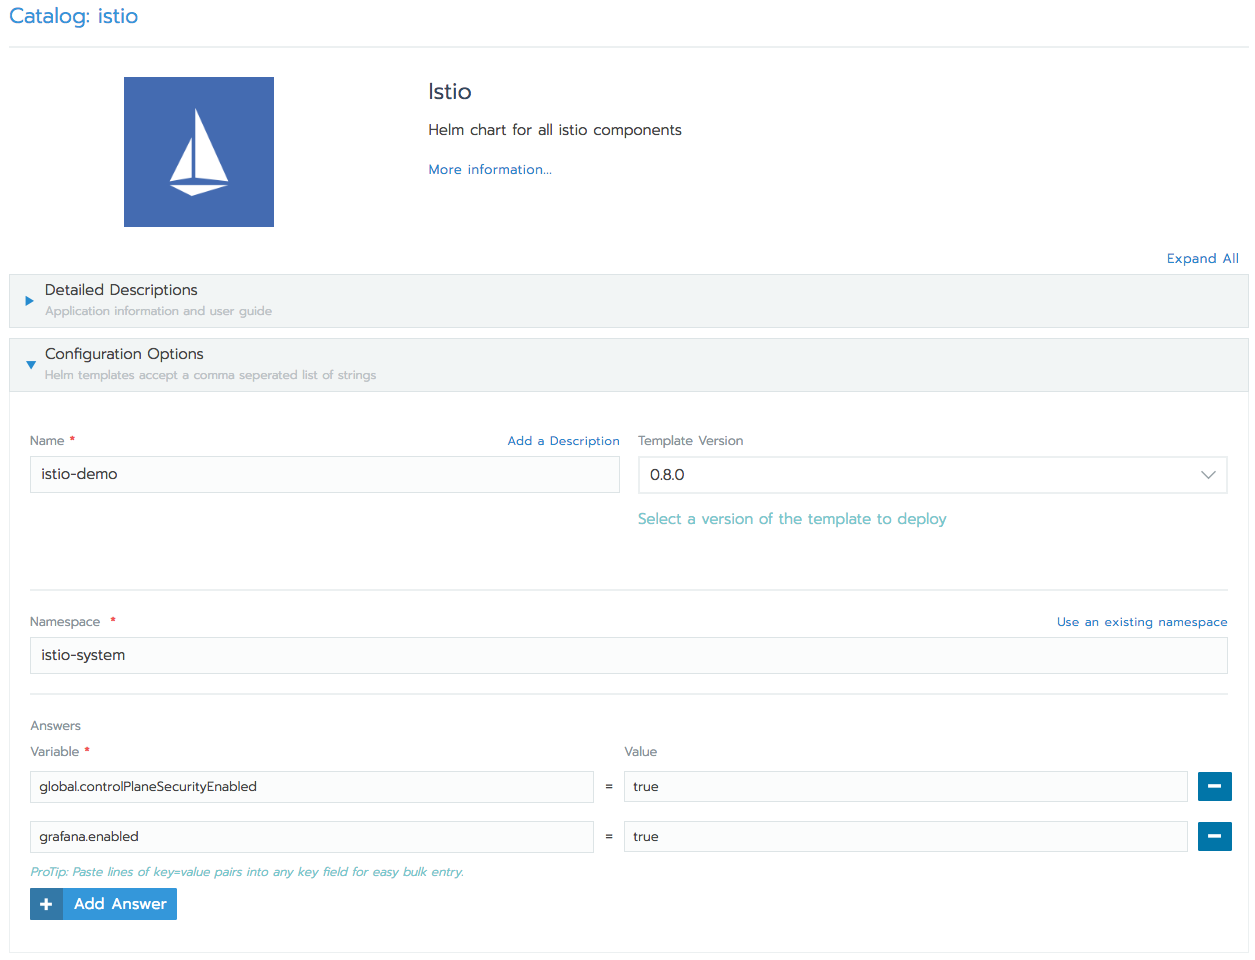
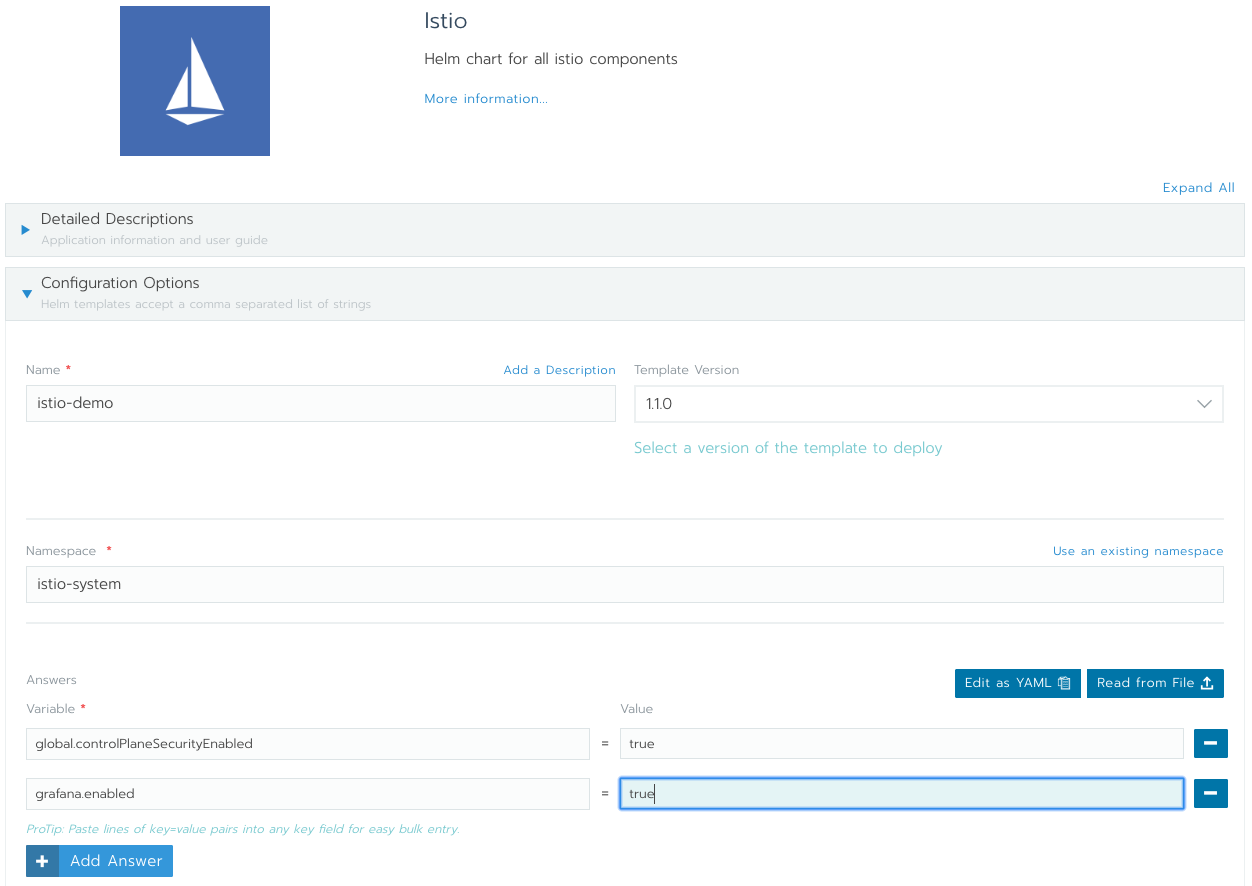
adapted to v1.0.2 of Istio

diff --git a/README.md b/README.md
@@ -1,6 +1,6 @@
 # **Deploying Istio using Rancher 2.0**
 
-Service mesh is a new technology stack aimed at solving the connectivity problem between cloud native applications. If you want to build a cloud native application, you need a service mesh. One of the big players in the service mesh world is Istio. Istio is best described in their own [about page](https://istio.io/about/intro/). It's a very promising service mesh solution, based on [Envoy Proxy](https://www.envoyproxy.io/), having multiple tech giants contributing to it.
+Service mesh is a new technology stack aimed at solving the connectivity problem between cloud native applications. If you want to build a cloud native application, you need a service mesh. One of the big players in the service mesh world is Istio. Istio is best described in their own [about page](https://istio.io/docs/concepts/what-is-istio/). It's a very promising service mesh solution, based on [Envoy Proxy](https://www.envoyproxy.io/), having multiple tech giants contributing to it.
 
 ### Below is an overview of how you can deploy Istio using [Rancher 2.0](https://rancher.com/docs/rancher/v2.x/en/)
 
@@ -9,9 +9,10 @@ Istio, at the moment works best with Kubernetes, but they are working to bring s
 #### Prerequisites
 To perform this demo, you will need the followings:
 - a Google Cloud Platform account, the free tier provided is more than enough;
-- one ubuntu 16.04 instance (this is where Rancher instance will be running)
-- a kubernetes cluster, deployed to Google Cloud Platform, using Google Kubernetes Engine, this demo uses version `1.10.5-gke.2`, latest available at the time of writing;
-- istio version `0.8.0`, the latest available at the time of this writing.
+- one ubuntu 18.04 instance (this is where Rancher instance will be running)
+- a kubernetes cluster, deployed to Google Cloud Platform, using Google Kubernetes Engine, this demo uses version `1.10.7-gke.6`, latest available at the time of writing;
+- Rancher `v2.1.0`;
+- istio version `1.0.2`, the latest available at the time of this writing.
 
 Normally the steps provided should be valid with newer versions too.
 
@@ -22,21 +23,20 @@ For the beginning, start a Rancher 2.0 instance. There's a very intuitive gettin
 This example will use Google Cloud Platform, so let's start and Ubuntu instance there and allow HTTP and HTTPs traffic to it, either via [Console or CLI](https://cloud.google.com/compute/docs/instances/create-start-instance). Here's an example command to achieve the above:
 ```
 gcloud compute --project=rancher-20 instances create rancher-20 \
---zone=europe-west2-a --machine-type=n1-standard-1 \
---tags=http-server,https-server --image=ubuntu-1604-xenial-v20180627 \
---image-project=ubuntu-os-cloud
-
-gcloud compute --project=rancher-20 firewall-rules create default-allow-http \
---direction=INGRESS --priority=1000 --network=default --action=ALLOW \
---rules=tcp:80 --source-ranges=0.0.0.0/0 --target-tags=http-server
-
-gcloud compute --project=rancher-20 firewall-rules create default-allow-https \
---direction=INGRESS --priority=1000 --network=default --action=ALLOW \
---rules=tcp:443 --source-ranges=0.0.0.0/0 --target-tags=https-server
-```
+ --zone=europe-west2-c \
+ --machine-type=g1-small \
+ --tags=http-server,https-server \
+ --image=ubuntu-1804-bionic-v20180911 \
+ --image-project=ubuntu-os-cloud
+ ```
 
 Make sure you have at least **1 vCPU** and about **4GB** of RAM available for the rancher instance.
-Next step is to ssh into the instance and [install docker](https://docs.docker.com/install/linux/docker-ce/ubuntu/). Once docker is installed, start Rancher and verify it's running:
+Next step is to ssh into the instance:
+```
+gcloud compute ssh --project "rancher-20" --zone "europe-west2-c" "rancher-20"
+```
+
+and [install docker](https://docs.docker.com/install/linux/docker-ce/ubuntu/). Once docker is installed, start Rancher and verify it's running:
 ```
 ubuntu@rancher-20:~$ sudo docker run -d --restart=unless-stopped -p 80:80 -p 443:443 rancher/rancher
 Unable to find image 'rancher/rancher:latest' locally
@@ -70,7 +70,7 @@ You should be redirected to a HTTPS page of Rancher and you should see a warning
 
 For that you'll need a Google Cloud Service Account with the following Roles attached to it `Compute Viewer`, `Kubernetes Engine Admin`, `Service Account User`, `Project Viewer`. Afterwards you need to generate service account keys, as described [here](https://cloud.google.com/iam/docs/creating-managing-service-account-keys)
 
-Now get your service account keys (it's safe to use the default Compute Engine service account), you will need them to start a kubernetes cluster using Rancher 2.0:
+Now get your service account keys (it's safe to use the default Compute Engine service account, you can get it from Google Cloud Console), you will need them to start a kubernetes cluster using Rancher 2.0:
 ```
 gcloud iam service-accounts keys create ./key.json \
     --iam-account <SA-NAME>@developer.gserviceaccount.com
@@ -123,7 +123,7 @@ Hit **Create**
 
 At this stage, you should be able to deploy Istio using Rancher's Catalog. To do that, go to the Default Project of `rancher-demo`'s cluster and select `Catalog Apps` there. Once you click on **Launch**, you will be presented with a number of default available applications. As this demo is about Istio, select from All Catalogs, the `istio-github` catalog, that you've just created. This will present you with 2 options `istio` and `istio-remote`. Select `View Details` for **istio** one. You'll be presented with the options to deploy Istio. Select the followings:
 * let's set the name to `istio-demo`;
-* leave the template version to *0.8.0*;
+* leave the template version to *1.1.0*;
 * the default namespace used for istio is `istio-system`, thus set the namespace to `istio-system`;
 * by default, Istio doesn't encrypt traffic between it's components. That's a very nice feature to have, let's add it. On the same topic, Istio's helm chart doesn't add by default Grafana, that's very useful to have, let's add this one too. This is done by setting to true the `global.controlPlaneSecurityEnabled` and `grafana.enabled` variables. To do this:
   - click **Add Answer**;
@@ -137,14 +137,7 @@ All of the above should look like in the screenshot below:
 
 Everything looks good, click on **Launch**
 
-Now if you look at the `Workloads` tab, you should see there all the components of Istio spinning up in your Cluster. Make sure all of the workloads are green. Also, check the `Load Balancing` tab, you should have `istio-ingress` and `istio-ingressgateway` there, both in `Active` state.
-
-In case you have `istio-ingressgateway` in `Pending` state, you need to apply `istio-ingressgateway` service once again. To do that:
-* click on **Import Yaml**;
-* for Import Mode, select `Cluster: Direct import of any resources into this cluster`;
-* copy/paste [istio-demo-ingressgateway.yaml](https://raw.githubusercontent.com/jaguarrr/istio-rancher-demo/master/istio-demo-ingressgateway.yaml) Service into the Import Yaml editor and hit **Import**:
-
-This step should solve the `Pending` problem with `istio-ingressgateway`.
+Now if you look at the `Workloads` tab, you should see there all the components of Istio spinning up in your Cluster. Make sure all of the workloads are green. Also, check the `Load Balancing` tab, you should have `istio-ingressgateway` there, in `Active` state.
 
 You should now check that all Istio's `Workloads`, `Load Balancing` and `Service Discovery` parts are green in Rancher Dashboard.
 
@@ -166,7 +159,7 @@ This label, will make sure that Istio-Sidecar-Injector will automatically inject
 
 #### Deploying Bookinfo sample app
 
-Only now, you can deploy a test application and test the power of Istio. To do that, let's deploy the [Bookinfo sample application](https://istio.io/docs/guides/bookinfo/). The interesting part of this application is that it has 3 versions of the reviews app, running at the same time. Here's where we can see some of Istio's features.
+Only now, you can deploy a test application and test the power of Istio. To do that, let's deploy the [Bookinfo sample application](https://istio.io/docs/examples/bookinfo/). The interesting part of this application is that it has 3 versions of the reviews app, running at the same time. Here's where we can see some of Istio's features.
 Go to the `rancher-demo` Default project workloads to deploy the Bookinfo app:
 * click on **Import Yaml**;
 * download the following [bookinfo.yaml](https://raw.githubusercontent.com/jaguarrr/istio-rancher-demo/master/bookinfo/bookinfo.yaml) to your local computer;
@@ -178,12 +171,12 @@ This should add 6 more workloads to your `rancher-demo` Default project. Just li
 
 ![Rancher Bookinfo Workloads](screenshots/rancher-bookinfo-workloads01.png)
 
-Now to expose the Bookinfo app via Istio, you need to apply this [bookinfo-gateway.yaml](https://raw.githubusercontent.com/jaguarrr/istio-rancher-demo/master/bookinfo/bookinfo-gateway.yaml) the same way as the `bookinfo.yaml`.
-At this moment, you can access the bookinfo app with your browser. Get the external IP address of the `istio-ingressgateway` Load Balancer. There are several ways to find this IP address. From Rancher, you can go to Load Balancing, and from the right hand side menu select `View in API`, just like in the screenshot below:
+Now to expose the Bookinfo app via Istio, you need to apply this [bookinfo-gateway.yaml](https://raw.githubusercontent.com/jaguarrr/istio-rancher-demo/master/bookinfo/bookinfo-gateway.yaml) the same way as the `bookinfo.yaml` via pe `Import YAML` option.
 
-![View Load Balancer in API](screenshots/rancher-lb-view-api01.png)
+At this moment, you can access the bookinfo app with your browser. For this you need the IP address of `istio-ingressgateway`. You can get that simply from workload tab, under `istio-ingressgateway`, you have the `80/tcp` link, if you click on that it will open the public IP address in a new tab, you need to append to that `/productpage` to get to the Bookinfo app:
 
-It should open in a new browser tab, search there for `publicEndpoints -> addresses` and you should see the public IP address.
+![Istio IngressGateway Public IP](screenshots/istio-public-ip.png)
+
 Another way is via kubectl:
 ```
 > export INGRESS_HOST=$(kubectl -n istio-system get service istio-ingressgateway -o jsonpath='{.status.loadBalancer.ingress[0].ip}')
@@ -195,9 +188,12 @@ Point your browser to `http://${INGRESS_HOST}/productpage` and you should see th
 - second one with black stars;
 - third one with red stars.
 
-Using istio, you can limit your app to route only to the first version of the app. To do that, Import the [route-rule-all-v1.yaml](https://raw.githubusercontent.com/jaguarrr/istio-rancher-demo/master/bookinfo/route-rule-all-v1.yaml) into Rancher, wait for a couple of seconds, and then refresh the page multiple times. You should no longer see any stars on the reviews.
+Before you can use Istio to control the Bookinfo version routing, you need to define the available versions, called subsets, in destination rules. Import [destination-rule-all.yaml](https://raw.githubusercontent.com/jaguarrr/istio-rancher-demo/master/bookinfo/destination-rule-all.yaml) into Rancher for this purpose
 
-Another example is to route traffic to only a set of users. If you import [route-rule-reviews-test-v2.yaml](https://raw.githubusercontent.com/jaguarrr/istio-rancher-demo/master/bookinfo/route-rule-reviews-test-v2.yaml) to Rancher, login to the Bookinfo app with username jason (no password needed), you should see only version 2 of the reviews (the one with the black stars). Logging out, will show you again only version 1 of the reviews app.
+
+Now, using istio, you can limit your app to route only to the first version of the app. To do that, Import the [virtual-service-all-v1.yaml](https://raw.githubusercontent.com/jaguarrr/istio-rancher-demo/master/bookinfo/virtual-service-all-v1.yaml) into Rancher, wait for a couple of seconds, and then refresh the page multiple times. You should no longer see any stars on the reviews.
+
+Another example is to route traffic to only a set of users. If you import [virtual-service-reviews-test-v2.yaml](https://raw.githubusercontent.com/jaguarrr/istio-rancher-demo/master/bookinfo/virtual-service-reviews-test-v2.yaml) to Rancher, login to the Bookinfo app with username `jason` (no password needed), you should see only version 2 of the reviews (the one with the black stars). Logging out, will show you again only version 1 of the reviews app.
 
 The power provided by Istio can already be seen. Of course, there are many more possibilities with Istio. With this setup created, you can play around with the [tasks provided in Istio's documentation](https://istio.io/docs/tasks/)
 
@@ -207,18 +203,16 @@ Now it's time to dive into the even more useful features of Istio - the metrics 
 
 Let's start with Grafana. The variable `grafana.enabled`, that was set to `true`, when we deployed Istio, created a grafana instance, configured to collect Istio's metrics and display them in several Dashboards. By default Grafana's service isn't exposed publicly, thus to view the metrics, you first need to expose Grafana's service to a [public IP address](https://kubernetes.io/docs/tasks/access-application-cluster/create-external-load-balancer/). There's also the option to expose the service using [NodePort](https://kubernetes.io/docs/concepts/services-networking/service/#nodeport), but this will require you to open that NodePort on all of the nodes from Google Cloud Platform firewall, and that's one more task to deal with, thus it's simpler to just expose it via a public IP address.
 
-To do this, go to the Workloads under `ranchers-demo` Default project and select the `Service Discovery` tab. After all the work already done on the cluster, there should be about 5 services in the `default` namespace and 12 services in the `istio-system` namespace, all in `Active` state. Select the `grafana` service and from the right hand side menu, select `View/Edit YAML`, just like in the image below:
+To do this, go to the Workloads under `ranchers-demo` Default project and select the `Service Discovery` tab. After all the work already done on the cluster, there should be about 5 services in the `default` namespace and about 10 services in the `istio-system` namespace, all in `Active` state. Select the `grafana` service and from the right hand side menu, select `View/Edit YAML`, just like in the image below:
 
 ![Rancher change grafana service](screenshots/rancher-change-grafana-service01.png)
 
-Find the line that says `type: ClusterIP` and change it to `type: LoadBalancer` and confidently click `Save`. Now it should provision a load balancer in Google Cloud Platform and expose Grafana there, on it's default port `3000`. To get the public IP address of Grafana, repeat the process used to find the IP address for bookinfo example, meaning either view grafana service in API, where you can find the IP address, or get it via kubectl:
+Find the line that says `type: ClusterIP` and change it to `type: LoadBalancer` and confidently click `Save`. Now it should provision a load balancer in Google Cloud Platform and expose Grafana there, on it's default port `3000`. To get the public IP address of Grafana, go to the `Workloads` tab and you should see a `3000/tcp` link under Grafana, click on that and a new tab with Grafana should open:
 
-```
-export GRAFANA_HOST=$(kubectl -n istio-system get service grafana -o jsonpath='{.status.loadBalancer.ingress[0].ip}')
-echo $GRAFANA_HOST
-```
+![Grafana public IP](screenshots/grafana-public-ip.png)
 
-Point your browser to `http://${GRAFANA_HOST}:3000/`, select one of the Dashboards, for example `Istio Service Dashboard`. With previously applied configurations, we limited traffic to show only version 1 of reviews app. To see that on the graphs, select `reviews.default.svc.cluster.local` form the `Service` dropdown. Now generate some traffic from Rancher's kubectl, using the following commands:
+
+Select one of the Dashboards, for example `Istio Service Dashboard`. With previously applied configurations, we limited traffic to show only version 1 of reviews app. To see that on the graphs, select `reviews.default.svc.cluster.local` form the `Service` dropdown. Now generate some traffic from Rancher's `kubectl`, using the following commands:
 
 ```
 export INGRESS_HOST=$(kubectl -n istio-system get service istio-ingressgateway -o jsonpath='{.status.loadBalancer.ingress[0].ip}')
@@ -229,14 +223,7 @@ Wait for about 5 minutes, to generate traffic for the Grafana to show on the Das
 
 ![Grafana Istio Service Dashboard](screenshots/grafana-istio-service-dashboard01.png)
 
-If you scroll a little bit on the Dashboard, under `SERVICE WORKLOADS` you can clearly see on `Incoming Requests by Destination And Response Code` graph, that requests for the Reviews app end up only on `v1` endpoint. If you generate some requests to version 2 of the app, with the following command (remember that user jason has access to `v2` of the reviews app):
-
-```
-export INGRESS_HOST=$(kubectl -n istio-system get service istio-ingressgateway -o jsonpath='{.status.loadBalancer.ingress[0].ip}')
-for i in {1..1000}; do curl -o /dev/null -s -w "%{http_code}\n" --cookie "user=jason" http://${INGRESS_HOST}/productpage; sleep 0.2; done
-```
-
- you should see requests appearing for the v2 app too, just like in the below screenshot:
+If you scroll a little bit on the Dashboard, under `SERVICE WORKLOADS` you can clearly see on `Incoming Requests by Destination And Response Code` graph, that requests for the Reviews app end up only on `v1` endpoint. If you generate some requests to version 2 of the app, while being logged into the app with user `jason` (remember that user jason has access to `v2` of the reviews app), you should see requests appearing for the v2 app too, just like in the below screenshot:
 
 ![Grafana Istio Services Graph for v1 and v2](screenshots/istio-graphs-v1-v2.png)
 
